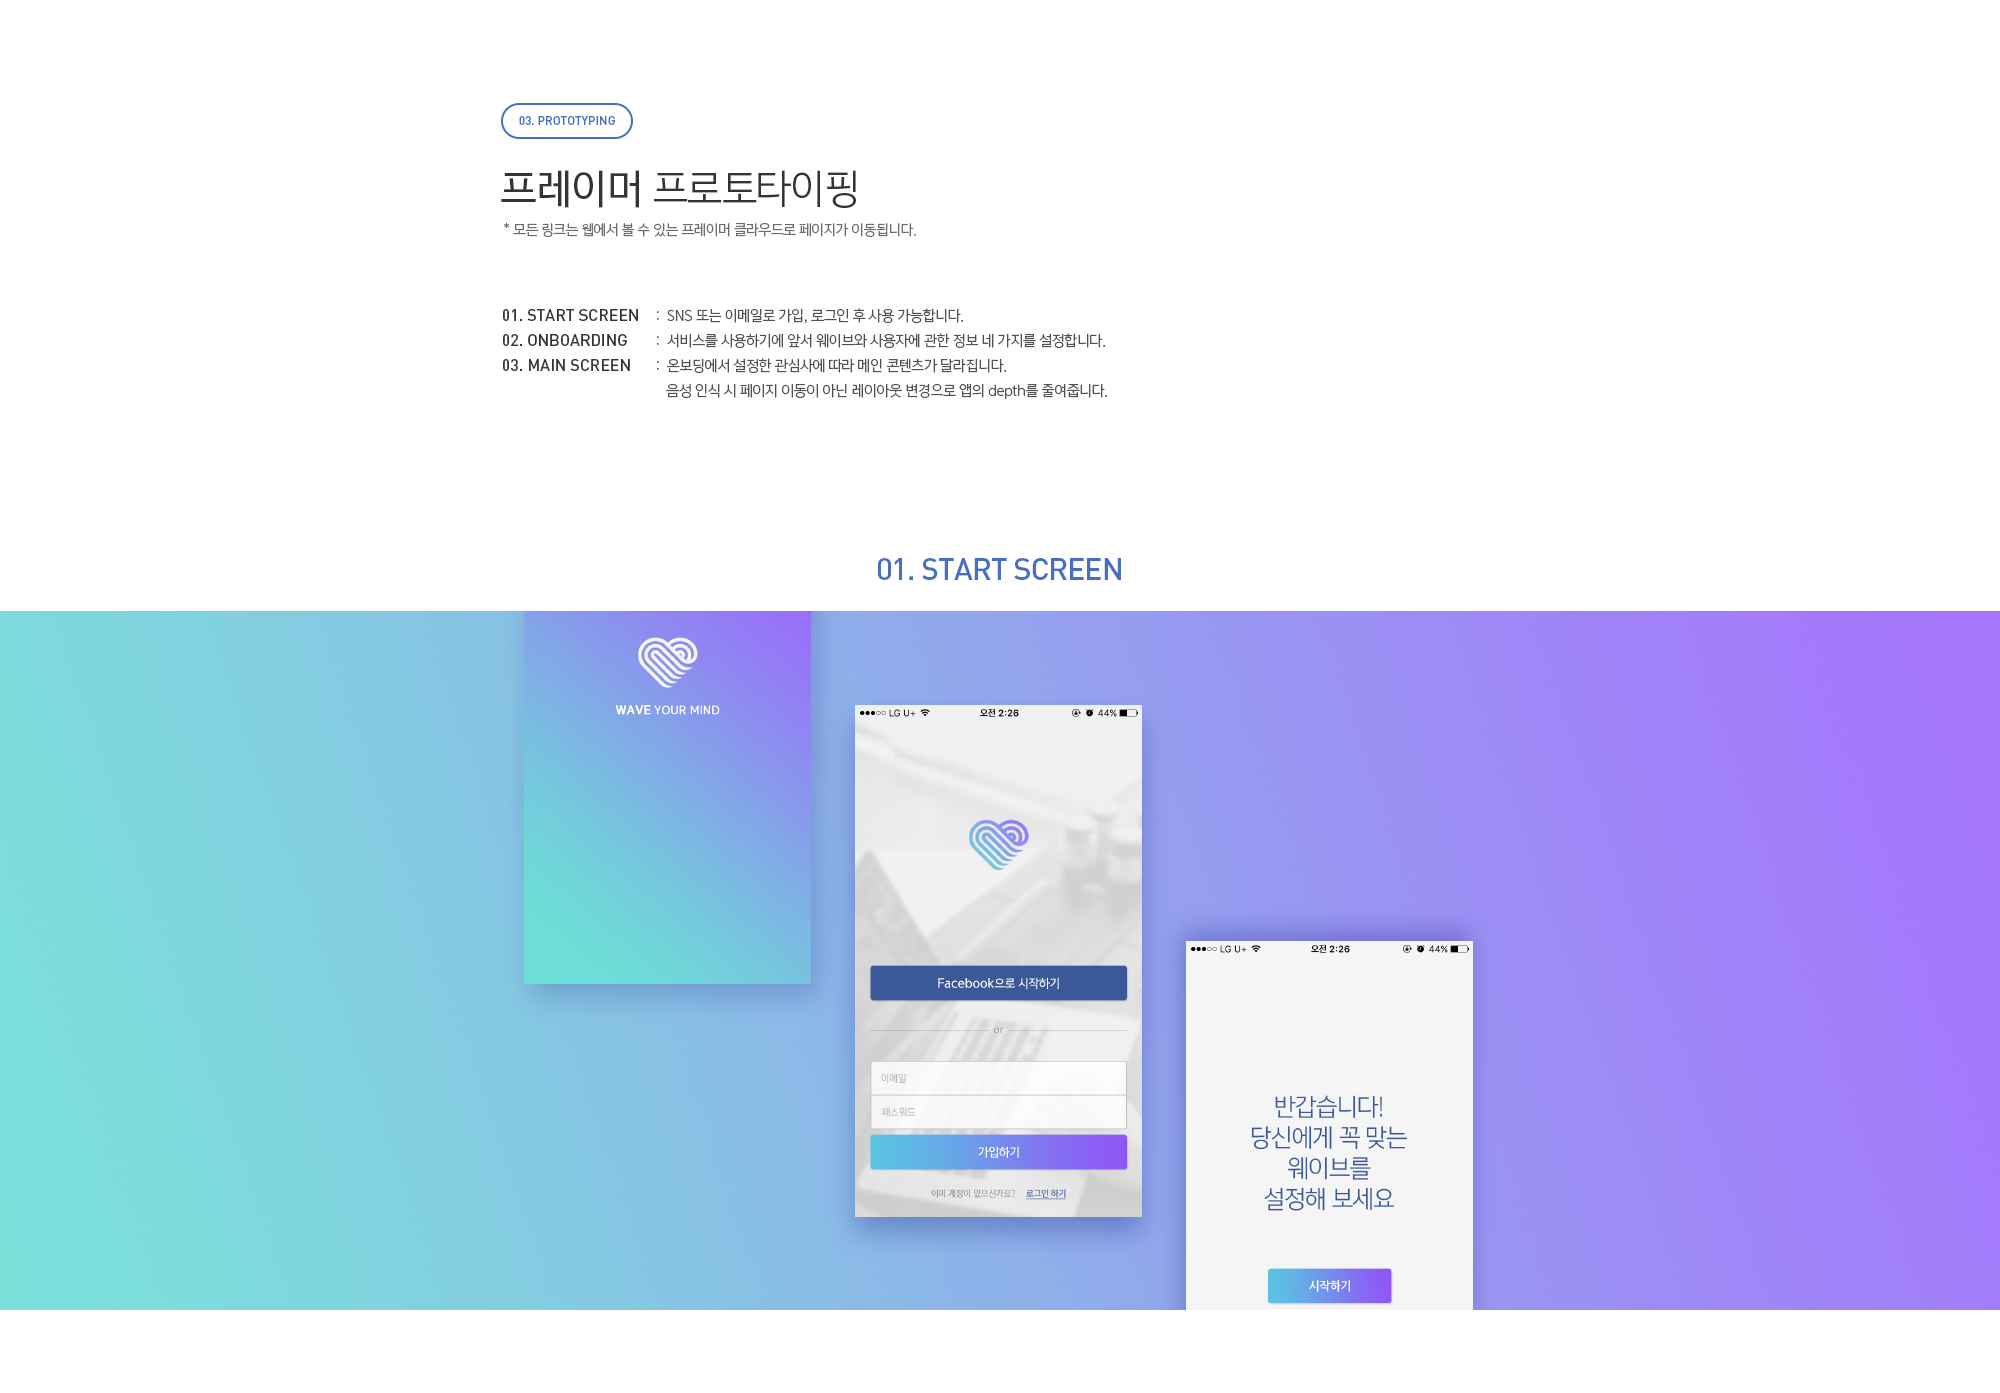
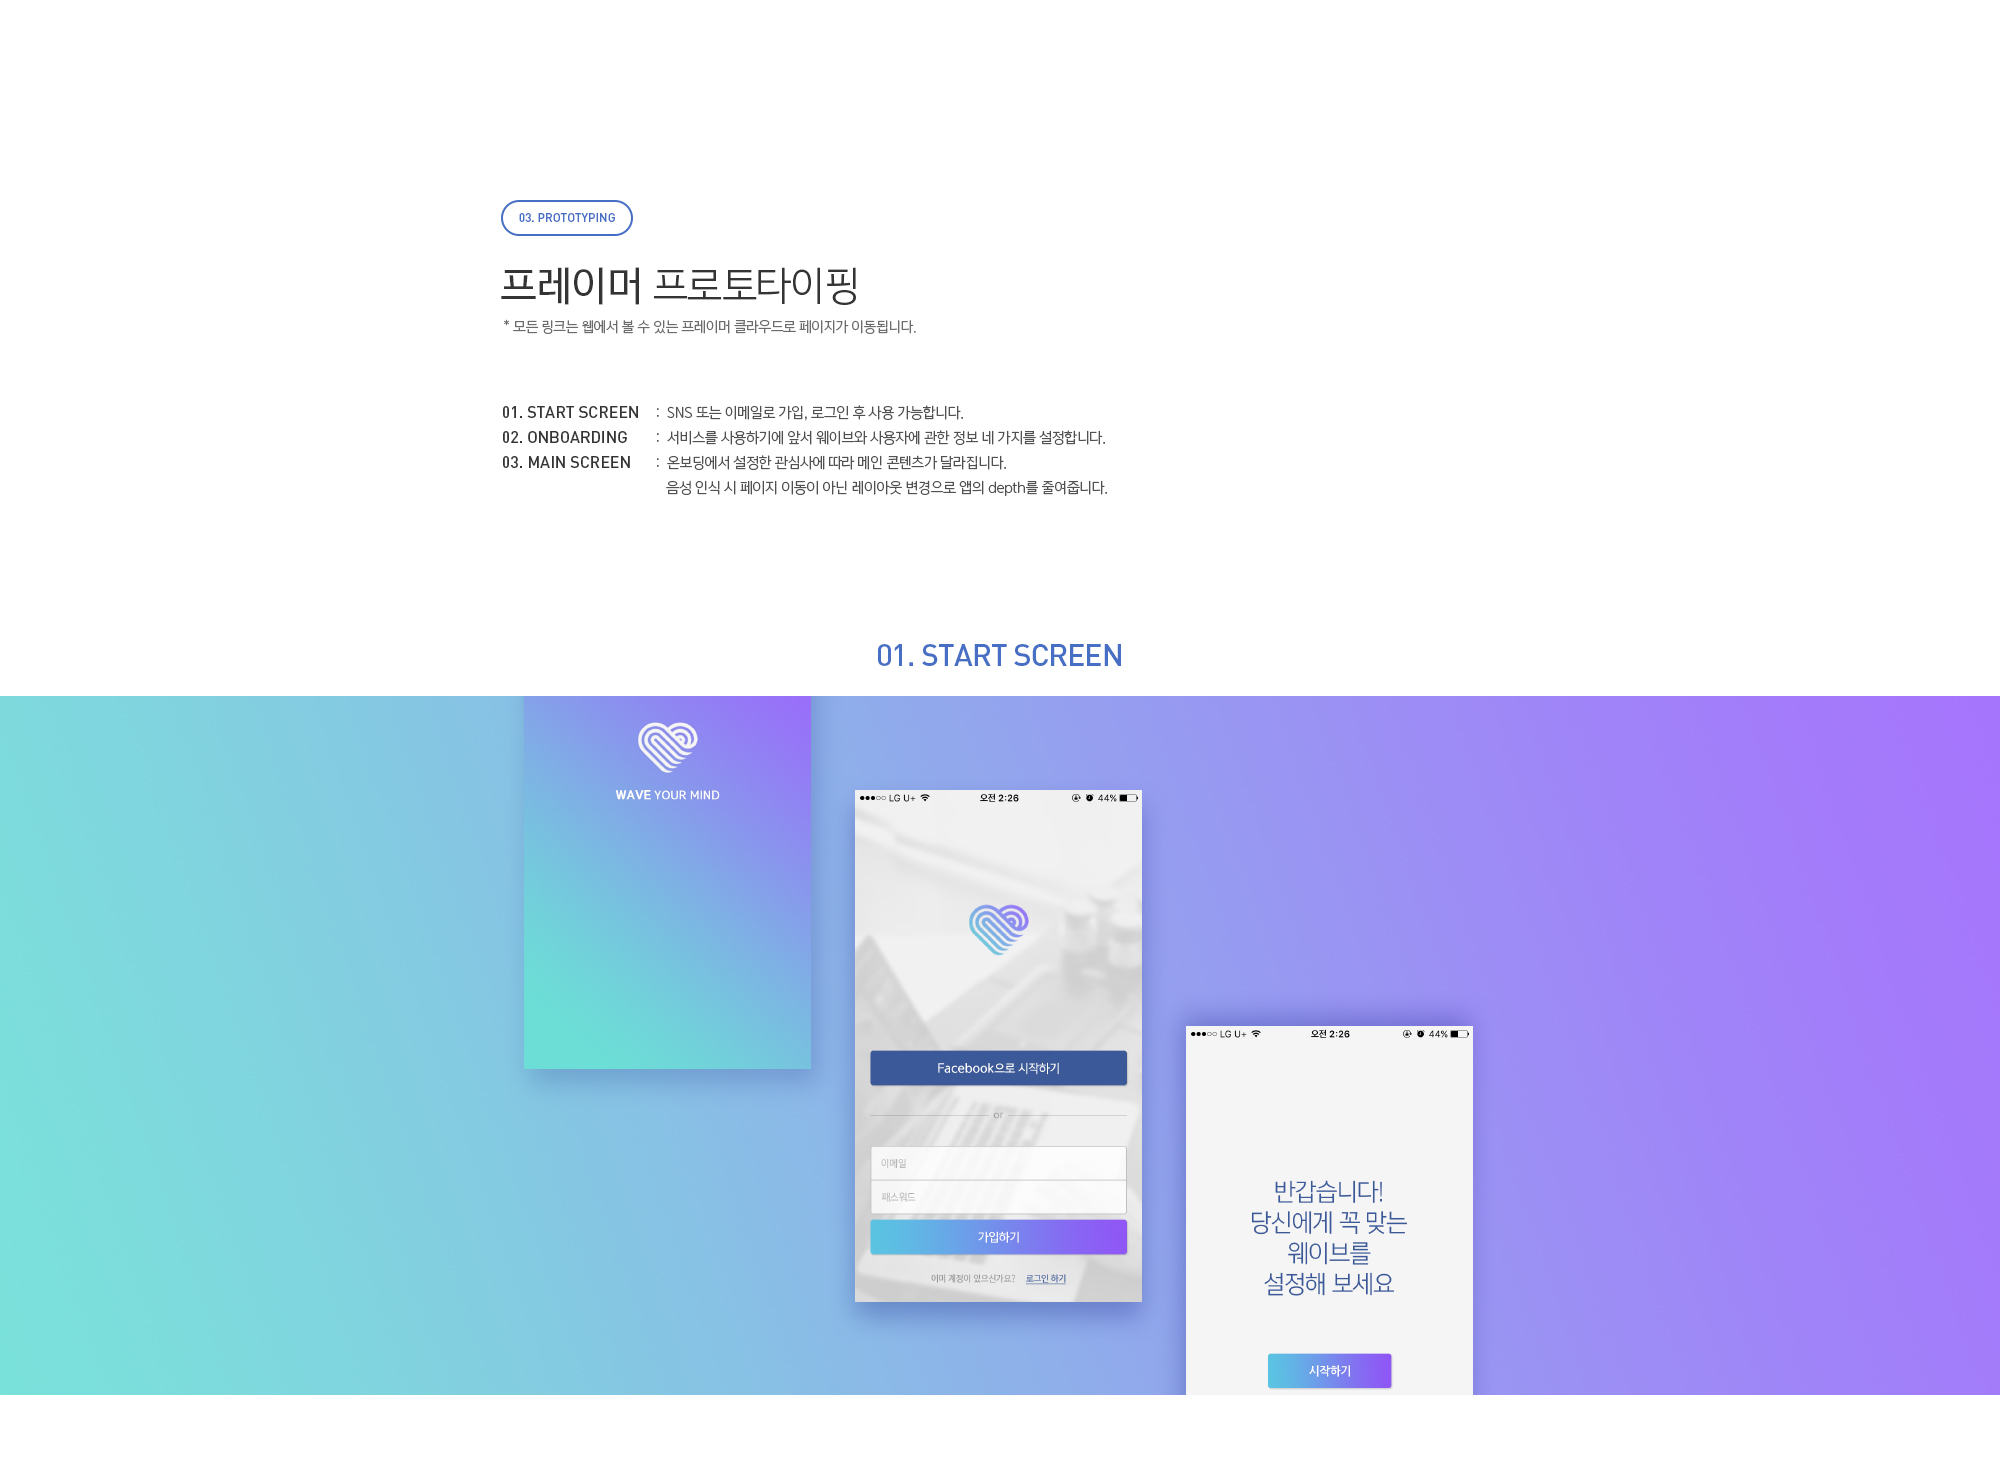
edit margin and add gif

diff --git a/wave/css/style.css b/wave/css/style.css
@@ -13,7 +13,7 @@ body {
 #image01 {
     display: block;
     width:2000px;
-    height:3690px;
+    height:3656px;
     background-image: url(../img/LINEtask_web_portfolio_1.jpg);
     background-repeat: no-repeat;
 }
@@ -22,7 +22,7 @@ body {
     display: block;
     position: relative;
     width:2000px;
-    height:1393px;
+    height:1475px;
     background-image: url(../img/LINEtask_web_portfolio_2.jpg);
     background-repeat: no-repeat;
 
@@ -32,17 +32,26 @@ body {
     display: block;
     position: relative;
     width:2000px;
-    height:1033px;
+    height:937px;
     background-image: url(../img/LINEtask_web_portfolio_3.jpg);
     background-repeat: no-repeat;
 
+}
+
+#image03_gif {
+    display: block;
+    position: relative;
+    width:600px; height:355px;
+    left: 50%; margin-left: -300px;
+    background-image: url(../img/button.gif);
+    background-repeat: no-repeat;
 }
 
 #image04 {
     display: block;
     position: relative;
     width:2000px;
-    height:2664px;
+    height:2537px;
     background-image: url(../img/LINEtask_web_portfolio_4.jpg);
     background-repeat: no-repeat;
 
@@ -52,7 +61,7 @@ body {
     display: block;
     position: relative;
     width:2000px;
-    height:528px;
+    height:440px;
     background-image: url(../img/LINEtask_web_portfolio_5.jpg);
     background-repeat: no-repeat;
 
@@ -81,3 +90,4 @@ body {
     -webkit-transition: all 0.0s;
             transition: all 0.0s;
 }
+

diff --git a/wave/index.html b/wave/index.html
@@ -19,15 +19,16 @@
             </div>            
  
             <div id="image03"></div>
+            <div id="image03_gif"></div>
             <div style ="cursor:pointer"
                  class="linkBtn" id="btn02"
                  onclick="window.location.href='http://framer.cloud/tXfAN'"
-                 target="_blank"></div>            
-
+                 target="_blank"></div>
+            
             <div id="image04"></div>
             <div style ="cursor:pointer"
                  class="linkBtn" id="btn03"
-                 onclick="window.location.href='https://goo.gl/M3UdLx'"
+                 onclick="window.location.href='http://framer.cloud/gQojm'"
                  target="_blank"></div>
             
             <div id="image05"></div>
